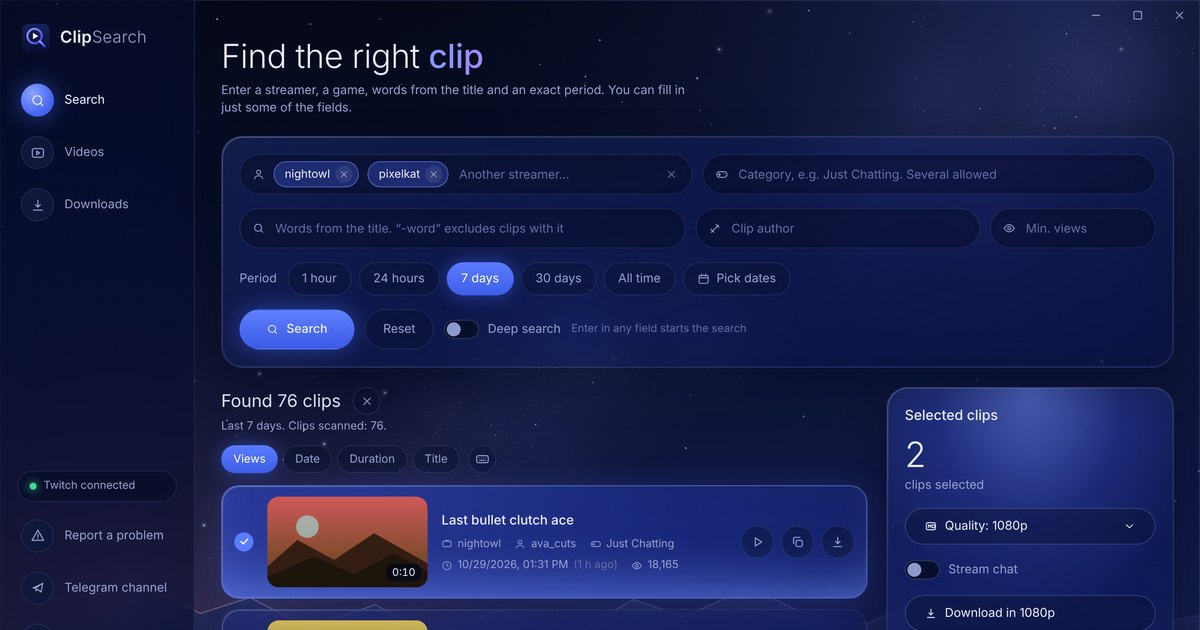
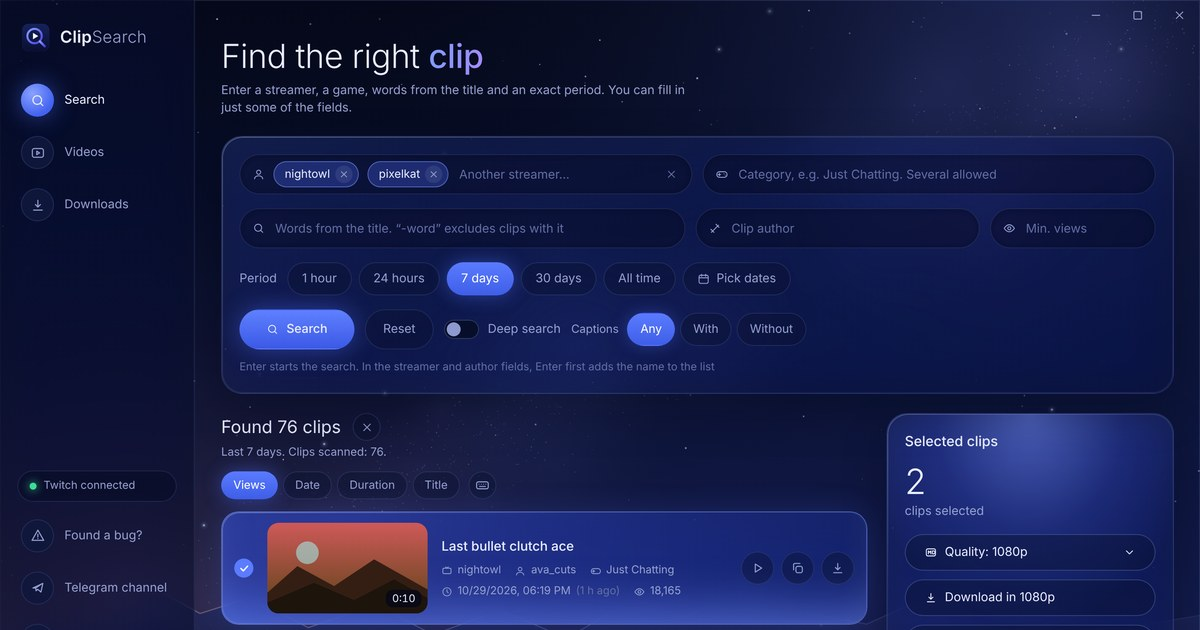
Quieter keyboard focus, no tooltip on captions filter, fresh app screenshots

Changed region(s): [[0.185, 0.4825, 0.9867, 1.0], [0.0617, 0.8444, 0.1542, 0.8746]]

diff --git a/site/en/index.html b/site/en/index.html
@@ -13,14 +13,15 @@
 <meta property="og:title" content="ClipSearch — search and download Twitch clips">
 <meta property="og:description" content="Find a Twitch clip in a minute and download it in 1080p. Free, no sign-in.">
 <meta property="og:url" content="https://clip-search.com/en/">
-<meta property="og:image" content="https://clip-search.com/og-en.jpg?v=4">
+<meta property="og:image" content="https://clip-search.com/og-en.jpg?v=5">
 <meta name="twitter:card" content="summary_large_image">
 <meta name="theme-color" content="#070b1f">
 <link rel="icon" href="../logo.svg" type="image/svg+xml">
 <link rel="preload" href="/fonts/onest-cyrillic.woff2" as="font" type="font/woff2" crossorigin>
 <link rel="preload" href="/fonts/onest-latin.woff2" as="font" type="font/woff2" crossorigin>
 <link rel="preconnect" href="https://api.clip-search.com">
-<style>@font-face{font-family:Onest;font-style:normal;font-weight:300 700;font-display:swap;src:url(/fonts/onest-cyrillic-ext.woff2) format('woff2');unicode-range:U+0460-052F,U+1C80-1C8A,U+20B4,U+2DE0-2DFF,U+A640-A69F,U+FE2E-FE2F}
+<style>
+@font-face{font-family:Onest;font-style:normal;font-weight:300 700;font-display:swap;src:url(/fonts/onest-cyrillic-ext.woff2) format('woff2');unicode-range:U+0460-052F,U+1C80-1C8A,U+20B4,U+2DE0-2DFF,U+A640-A69F,U+FE2E-FE2F}
 @font-face{font-family:Onest;font-style:normal;font-weight:300 700;font-display:swap;src:url(/fonts/onest-cyrillic.woff2) format('woff2');unicode-range:U+0301,U+0400-045F,U+0490-0491,U+04B0-04B1,U+2116}
 @font-face{font-family:Onest;font-style:normal;font-weight:300 700;font-display:swap;src:url(/fonts/onest-latin-ext.woff2) format('woff2');unicode-range:U+0100-02BA,U+02BD-02C5,U+02C7-02CC,U+02CE-02D7,U+02DD-02FF,U+0304,U+0308,U+0329,U+1D00-1DBF,U+1E00-1E9F,U+1EF2-1EFF,U+2020,U+20A0-20AB,U+20AD-20C4,U+2113,U+2C60-2C7F,U+A720-A7FF}
 @font-face{font-family:Onest;font-style:normal;font-weight:300 700;font-display:swap;src:url(/fonts/onest-latin.woff2) format('woff2');unicode-range:U+0000-00FF,U+0131,U+0152-0153,U+02BB-02BC,U+02C6,U+02DA,U+02DC,U+0304,U+0308,U+0329,U+2000-206F,U+20AC,U+2122,U+2191,U+2193,U+2212,U+2215,U+FEFF,U+FFFD}
@@ -55,7 +56,7 @@ body {
     linear-gradient(180deg, var(--sky-0) 0%, var(--sky-1) 45%, var(--sky-0) 100%);
   overflow-x: hidden;
 }
-body::after { /* звёзды, как на фоне программы */
+body::after {
   content: ""; position: fixed; inset: 0; pointer-events: none; z-index: 0; opacity: .55;
   background-image:
     radial-gradient(1px 1px at 12% 18%, #fff 50%, transparent 51%), radial-gradient(1px 1px at 33% 72%, #cfd8ff 50%, transparent 51%),
@@ -70,7 +71,6 @@ a { color: inherit; }
   padding-left: max(20px, env(safe-area-inset-left, 0px)); padding-right: max(20px, env(safe-area-inset-right, 0px)); }
 :focus-visible { outline: 2px solid var(--accent); outline-offset: 3px; border-radius: 8px; }
 
-/* шапка */
 .top { display: flex; align-items: center; gap: 28px; padding-block: 22px; }
 .brand { display: flex; align-items: center; gap: 12px; text-decoration: none; font-size: 22px; letter-spacing: -.01em; }
 .brand svg { width: 38px; height: 38px; flex: none; }
@@ -82,7 +82,6 @@ a { color: inherit; }
   border: 1px solid var(--line-strong); background: rgba(30, 44, 98, .45); transition: border-color .2s, background .2s; }
 .btn-sm:hover { border-color: var(--accent); background: rgba(48, 66, 150, .55); }
 
-/* герой */
 .hero { display: grid; justify-items: center; text-align: center; padding-block: 56px 40px; gap: 22px; }
 .eyebrow { display: inline-flex; align-items: center; gap: 10px; padding: 7px 14px 7px 10px; border-radius: 999px; font-size: 14px; color: var(--muted);
   border: 1px solid var(--line); background: rgba(17, 26, 62, .5); }
@@ -105,7 +104,6 @@ h1 em { font-style: normal; font-weight: 700;
 .req { margin: 0; font-size: 14px; color: var(--faint); }
 .req a { color: var(--muted); }
 
-/* окно программы */
 .stage { position: relative; perspective: 1600px; margin-top: 30px; width: 100%; }
 .stage::before { content: ""; position: absolute; inset: 8% 6% -4%; border-radius: 40px; filter: blur(60px);
   background: radial-gradient(closest-side, rgba(91, 124, 255, .55), rgba(122, 99, 255, .25) 60%, transparent); z-index: -1; }
@@ -119,7 +117,6 @@ h1 em { font-style: normal; font-weight: 700;
 @keyframes rise { from { transform: translateY(26px) rotateX(18deg); opacity: .4; } }
 .ridge { display: block; width: 100%; height: 120px; margin-top: -60px; position: relative; z-index: -1; }
 
-/* разделы */
 section { padding-block: 70px; }
 .head { display: grid; gap: 10px; margin-bottom: 34px; max-width: 46em; }
 .kicker { font-size: 13px; letter-spacing: .12em; text-transform: uppercase; color: var(--accent); font-weight: 600; }
@@ -143,7 +140,6 @@ h2 b { font-weight: 650; }
 .chip { font-size: 13px; padding: 4px 10px; border-radius: 999px; background: rgba(91, 124, 255, .16); border: 1px solid rgba(150, 172, 255, .22); color: #cfd8ff; }
 kbd { font-family: var(--font); font-size: 12.5px; padding: 2px 7px; border-radius: 6px; border: 1px solid var(--line-strong); background: rgba(12, 18, 54, .6); color: var(--text); }
 
-/* установка */
 .steps { display: grid; grid-template-columns: repeat(3, minmax(0, 1fr)); gap: 16px; counter-reset: s; }
 .step { padding: 26px; display: grid; gap: 10px; align-content: start; }
 .step .n { counter-increment: s; width: 34px; height: 34px; border-radius: 50%; display: grid; place-items: center; font-weight: 600; font-size: 15px;
@@ -154,7 +150,6 @@ kbd { font-family: var(--font); font-size: 12.5px; padding: 2px 7px; border-radi
 .step .warn { margin-top: 6px; padding: 12px 14px; border-radius: var(--r-sm); background: rgba(12, 18, 54, .55); border: 1px dashed var(--line-strong); font-size: 14px; color: var(--muted); }
 .step .warn b { color: var(--text); font-weight: 500; }
 
-/* версии */
 .log { display: grid; grid-template-columns: 220px minmax(0, 1fr); gap: 0; padding: 8px 0; overflow: hidden; }
 .log > div { padding: 22px 28px; border-top: 1px solid var(--line); }
 .log > div:nth-child(-n+2) { border-top: 0; }
@@ -165,7 +160,6 @@ kbd { font-family: var(--font); font-size: 12.5px; padding: 2px 7px; border-radi
 .log ul { margin: 0; padding-left: 18px; color: var(--muted); display: grid; gap: 6px; }
 .log li::marker { color: var(--accent); }
 
-/* вопросы */
 .faq { display: grid; grid-template-columns: repeat(2, minmax(0, 1fr)); gap: 16px; }
 details { padding: 20px 24px; }
 summary { cursor: pointer; list-style: none; font-weight: 600; font-size: 17px; display: flex; justify-content: space-between; gap: 16px; }
@@ -174,7 +168,6 @@ summary::after { content: "+"; color: var(--accent); font-weight: 400; font-size
 details[open] summary::after { transform: rotate(45deg); }
 details p { margin: 12px 0 0; color: var(--muted); font-size: 15px; }
 
-/* низ */
 .final { text-align: center; display: grid; justify-items: center; gap: 18px; padding: 54px 24px; margin-top: 10px; }
 .final h2 { max-width: 18ch; }
 footer { padding-block: 36px 48px; color: var(--faint); font-size: 14px; display: flex; flex-wrap: wrap; gap: 10px 24px; justify-content: space-between; border-top: 1px solid var(--line); margin-top: 40px; }
@@ -202,7 +195,6 @@ footer a { color: var(--muted); }
   html { scroll-behavior: auto; }
 }
 
-/* поиск на сайте */
 .hero { padding-block: 46px 26px; }
 .tool { padding: 22px; display: grid; gap: 14px; position: relative; }
 .row { display: grid; gap: 12px; }
@@ -289,7 +281,6 @@ footer a { color: var(--muted); }
 .appsec .stage { margin-top: 10px; }
 .appsec .req { margin-top: 14px; }
 
-/* всплывающие окна */
 .veil { position: fixed; inset: 0; z-index: 50; display: grid; place-items: center; padding: 20px; background: rgba(3, 6, 20, .72);
   -webkit-backdrop-filter: blur(8px); backdrop-filter: blur(8px); animation: fade .25s both; }
 @keyframes fade { from { opacity: 0; } }
@@ -353,7 +344,6 @@ footer a { color: var(--muted); }
 .ostabs button:hover { color: var(--text); }
 .ostabs button.on { color: #fff; background: linear-gradient(135deg, #7290ff, #5b7cff 55%, #7a63ff); box-shadow: 0 8px 22px rgba(80, 110, 255, .35); }
 
-/* записи трансляций */
 .modes { display: flex; gap: 6px; width: max-content; max-width: 100%; padding: 5px; border-radius: 999px; border: 1px solid var(--line); background: rgba(8, 12, 40, .5); }
 .modes button { display: inline-flex; align-items: center; gap: 8px; font: inherit; font-size: 15px; font-weight: 600; color: var(--muted); background: none; border: 0; border-radius: 999px; padding: 9px 18px; cursor: pointer; transition: color .2s, background .2s, box-shadow .2s; }
 .modes button .i { stroke: currentColor; }
@@ -410,7 +400,9 @@ footer a { color: var(--muted); }
 .vdl .rs-scale { margin-bottom: 4px; }
 .vdl .vlocks .lockbtn { height: auto; min-height: 34px; padding: 6px 13px; font-size: 13.5px; text-align: left; line-height: 1.3; }
 </style>
-<script type="application/ld+json">{"@context":"https://schema.org","@type":"SoftwareApplication","name":"ClipSearch","operatingSystem":"Windows 10, Windows 11, macOS 11","applicationCategory":"MultimediaApplication","offers":{"@type":"Offer","price":"0","priceCurrency":"USD"},"url":"https://clip-search.com/","downloadUrl":"https://github.com/clipsearch-app/ClipSearch/releases/latest/download/ClipSearchSetup.exe"}</script>
+<script type="application/ld+json">
+{"@context":"https://schema.org","@type":"SoftwareApplication","name":"ClipSearch","operatingSystem":"Windows 10, Windows 11, macOS 11","applicationCategory":"MultimediaApplication","offers":{"@type":"Offer","price":"0","priceCurrency":"USD"},"url":"https://clip-search.com/","downloadUrl":"https://github.com/clipsearch-app/ClipSearch/releases/latest/download/ClipSearchSetup.exe"}
+</script>
 </head>
 <body>
 
@@ -587,7 +579,7 @@ footer a { color: var(--muted); }
     </div>
     <div class="stage">
       <div class="win" id="win">
-        <img src="../shot-en.webp?v=4" alt="ClipSearch window: 76 clips found for two streamers over 7 days, two clips selected for download in 1080p" width="1600" height="1019" loading="lazy">
+        <img src="../shot-en.webp?v=5" alt="ClipSearch window: 76 clips found for two streamers over 7 days, two clips selected for download in 1080p" width="1600" height="1019" loading="lazy">
         <div class="shine"></div>
       </div>
     </div>
@@ -771,7 +763,6 @@ footer a { color: var(--muted); }
 </div>
 
 <script>
-// окно программы чуть поворачивается за курсором — как превью клипов в самой программе
 (function () {
   const win = document.getElementById("win");
   if (!win || matchMedia("(prefers-reduced-motion: reduce)").matches || matchMedia("(hover: none)").matches) return;

diff --git a/site/en/privacy/index.html b/site/en/privacy/index.html
@@ -7,7 +7,8 @@
 <meta name="robots" content="noindex">
 <meta name="theme-color" content="#070b1f">
 <link rel="icon" href="/logo.svg" type="image/svg+xml">
-<style>@font-face{font-family:Onest;font-style:normal;font-weight:300 700;font-display:swap;src:url(/fonts/onest-cyrillic-ext.woff2) format('woff2');unicode-range:U+0460-052F,U+1C80-1C8A,U+20B4,U+2DE0-2DFF,U+A640-A69F,U+FE2E-FE2F}
+<style>
+@font-face{font-family:Onest;font-style:normal;font-weight:300 700;font-display:swap;src:url(/fonts/onest-cyrillic-ext.woff2) format('woff2');unicode-range:U+0460-052F,U+1C80-1C8A,U+20B4,U+2DE0-2DFF,U+A640-A69F,U+FE2E-FE2F}
 @font-face{font-family:Onest;font-style:normal;font-weight:300 700;font-display:swap;src:url(/fonts/onest-cyrillic.woff2) format('woff2');unicode-range:U+0301,U+0400-045F,U+0490-0491,U+04B0-04B1,U+2116}
 @font-face{font-family:Onest;font-style:normal;font-weight:300 700;font-display:swap;src:url(/fonts/onest-latin-ext.woff2) format('woff2');unicode-range:U+0100-02BA,U+02BD-02C5,U+02C7-02CC,U+02CE-02D7,U+02DD-02FF,U+0304,U+0308,U+0329,U+1D00-1DBF,U+1E00-1E9F,U+1EF2-1EFF,U+2020,U+20A0-20AB,U+20AD-20C4,U+2113,U+2C60-2C7F,U+A720-A7FF}
 @font-face{font-family:Onest;font-style:normal;font-weight:300 700;font-display:swap;src:url(/fonts/onest-latin.woff2) format('woff2');unicode-range:U+0000-00FF,U+0131,U+0152-0153,U+02BB-02BC,U+02C6,U+02DA,U+02DC,U+0304,U+0308,U+0329,U+2000-206F,U+20AC,U+2122,U+2191,U+2193,U+2212,U+2215,U+FEFF,U+FFFD}
@@ -42,7 +43,7 @@ body {
     linear-gradient(180deg, var(--sky-0) 0%, var(--sky-1) 45%, var(--sky-0) 100%);
   overflow-x: hidden;
 }
-body::after { /* звёзды, как на фоне программы */
+body::after {
   content: ""; position: fixed; inset: 0; pointer-events: none; z-index: 0; opacity: .55;
   background-image:
     radial-gradient(1px 1px at 12% 18%, #fff 50%, transparent 51%), radial-gradient(1px 1px at 33% 72%, #cfd8ff 50%, transparent 51%),
@@ -57,7 +58,6 @@ a { color: inherit; }
   padding-left: max(20px, env(safe-area-inset-left, 0px)); padding-right: max(20px, env(safe-area-inset-right, 0px)); }
 :focus-visible { outline: 2px solid var(--accent); outline-offset: 3px; border-radius: 8px; }
 
-/* шапка */
 .top { display: flex; align-items: center; gap: 28px; padding-block: 22px; }
 .brand { display: flex; align-items: center; gap: 12px; text-decoration: none; font-size: 22px; letter-spacing: -.01em; }
 .brand svg { width: 38px; height: 38px; flex: none; }
@@ -69,7 +69,6 @@ a { color: inherit; }
   border: 1px solid var(--line-strong); background: rgba(30, 44, 98, .45); transition: border-color .2s, background .2s; }
 .btn-sm:hover { border-color: var(--accent); background: rgba(48, 66, 150, .55); }
 
-/* герой */
 .hero { display: grid; justify-items: center; text-align: center; padding-block: 56px 40px; gap: 22px; }
 .eyebrow { display: inline-flex; align-items: center; gap: 10px; padding: 7px 14px 7px 10px; border-radius: 999px; font-size: 14px; color: var(--muted);
   border: 1px solid var(--line); background: rgba(17, 26, 62, .5); }
@@ -92,7 +91,6 @@ h1 em { font-style: normal; font-weight: 700;
 .req { margin: 0; font-size: 14px; color: var(--faint); }
 .req a { color: var(--muted); }
 
-/* окно программы */
 .stage { position: relative; perspective: 1600px; margin-top: 30px; width: 100%; }
 .stage::before { content: ""; position: absolute; inset: 8% 6% -4%; border-radius: 40px; filter: blur(60px);
   background: radial-gradient(closest-side, rgba(91, 124, 255, .55), rgba(122, 99, 255, .25) 60%, transparent); z-index: -1; }
@@ -106,7 +104,6 @@ h1 em { font-style: normal; font-weight: 700;
 @keyframes rise { from { transform: translateY(26px) rotateX(18deg); opacity: .4; } }
 .ridge { display: block; width: 100%; height: 120px; margin-top: -60px; position: relative; z-index: -1; }
 
-/* разделы */
 section { padding-block: 70px; }
 .head { display: grid; gap: 10px; margin-bottom: 34px; max-width: 46em; }
 .kicker { font-size: 13px; letter-spacing: .12em; text-transform: uppercase; color: var(--accent); font-weight: 600; }
@@ -130,7 +127,6 @@ h2 b { font-weight: 650; }
 .chip { font-size: 13px; padding: 4px 10px; border-radius: 999px; background: rgba(91, 124, 255, .16); border: 1px solid rgba(150, 172, 255, .22); color: #cfd8ff; }
 kbd { font-family: var(--font); font-size: 12.5px; padding: 2px 7px; border-radius: 6px; border: 1px solid var(--line-strong); background: rgba(12, 18, 54, .6); color: var(--text); }
 
-/* установка */
 .steps { display: grid; grid-template-columns: repeat(3, minmax(0, 1fr)); gap: 16px; counter-reset: s; }
 .step { padding: 26px; display: grid; gap: 10px; align-content: start; }
 .step .n { counter-increment: s; width: 34px; height: 34px; border-radius: 50%; display: grid; place-items: center; font-weight: 600; font-size: 15px;
@@ -141,7 +137,6 @@ kbd { font-family: var(--font); font-size: 12.5px; padding: 2px 7px; border-radi
 .step .warn { margin-top: 6px; padding: 12px 14px; border-radius: var(--r-sm); background: rgba(12, 18, 54, .55); border: 1px dashed var(--line-strong); font-size: 14px; color: var(--muted); }
 .step .warn b { color: var(--text); font-weight: 500; }
 
-/* версии */
 .log { display: grid; grid-template-columns: 220px minmax(0, 1fr); gap: 0; padding: 8px 0; overflow: hidden; }
 .log > div { padding: 22px 28px; border-top: 1px solid var(--line); }
 .log > div:nth-child(-n+2) { border-top: 0; }
@@ -152,7 +147,6 @@ kbd { font-family: var(--font); font-size: 12.5px; padding: 2px 7px; border-radi
 .log ul { margin: 0; padding-left: 18px; color: var(--muted); display: grid; gap: 6px; }
 .log li::marker { color: var(--accent); }
 
-/* вопросы */
 .faq { display: grid; grid-template-columns: repeat(2, minmax(0, 1fr)); gap: 16px; }
 details { padding: 20px 24px; }
 summary { cursor: pointer; list-style: none; font-weight: 600; font-size: 17px; display: flex; justify-content: space-between; gap: 16px; }
@@ -161,7 +155,6 @@ summary::after { content: "+"; color: var(--accent); font-weight: 400; font-size
 details[open] summary::after { transform: rotate(45deg); }
 details p { margin: 12px 0 0; color: var(--muted); font-size: 15px; }
 
-/* низ */
 .final { text-align: center; display: grid; justify-items: center; gap: 18px; padding: 54px 24px; margin-top: 10px; }
 .final h2 { max-width: 18ch; }
 footer { padding-block: 36px 48px; color: var(--faint); font-size: 14px; display: flex; flex-wrap: wrap; gap: 10px 24px; justify-content: space-between; border-top: 1px solid var(--line); margin-top: 40px; }

diff --git a/site/privacy/index.html b/site/privacy/index.html
@@ -7,7 +7,8 @@
 <meta name="robots" content="noindex">
 <meta name="theme-color" content="#070b1f">
 <link rel="icon" href="/logo.svg" type="image/svg+xml">
-<style>@font-face{font-family:Onest;font-style:normal;font-weight:300 700;font-display:swap;src:url(/fonts/onest-cyrillic-ext.woff2) format('woff2');unicode-range:U+0460-052F,U+1C80-1C8A,U+20B4,U+2DE0-2DFF,U+A640-A69F,U+FE2E-FE2F}
+<style>
+@font-face{font-family:Onest;font-style:normal;font-weight:300 700;font-display:swap;src:url(/fonts/onest-cyrillic-ext.woff2) format('woff2');unicode-range:U+0460-052F,U+1C80-1C8A,U+20B4,U+2DE0-2DFF,U+A640-A69F,U+FE2E-FE2F}
 @font-face{font-family:Onest;font-style:normal;font-weight:300 700;font-display:swap;src:url(/fonts/onest-cyrillic.woff2) format('woff2');unicode-range:U+0301,U+0400-045F,U+0490-0491,U+04B0-04B1,U+2116}
 @font-face{font-family:Onest;font-style:normal;font-weight:300 700;font-display:swap;src:url(/fonts/onest-latin-ext.woff2) format('woff2');unicode-range:U+0100-02BA,U+02BD-02C5,U+02C7-02CC,U+02CE-02D7,U+02DD-02FF,U+0304,U+0308,U+0329,U+1D00-1DBF,U+1E00-1E9F,U+1EF2-1EFF,U+2020,U+20A0-20AB,U+20AD-20C4,U+2113,U+2C60-2C7F,U+A720-A7FF}
 @font-face{font-family:Onest;font-style:normal;font-weight:300 700;font-display:swap;src:url(/fonts/onest-latin.woff2) format('woff2');unicode-range:U+0000-00FF,U+0131,U+0152-0153,U+02BB-02BC,U+02C6,U+02DA,U+02DC,U+0304,U+0308,U+0329,U+2000-206F,U+20AC,U+2122,U+2191,U+2193,U+2212,U+2215,U+FEFF,U+FFFD}
@@ -42,7 +43,7 @@ body {
     linear-gradient(180deg, var(--sky-0) 0%, var(--sky-1) 45%, var(--sky-0) 100%);
   overflow-x: hidden;
 }
-body::after { /* звёзды, как на фоне программы */
+body::after {
   content: ""; position: fixed; inset: 0; pointer-events: none; z-index: 0; opacity: .55;
   background-image:
     radial-gradient(1px 1px at 12% 18%, #fff 50%, transparent 51%), radial-gradient(1px 1px at 33% 72%, #cfd8ff 50%, transparent 51%),
@@ -57,7 +58,6 @@ a { color: inherit; }
   padding-left: max(20px, env(safe-area-inset-left, 0px)); padding-right: max(20px, env(safe-area-inset-right, 0px)); }
 :focus-visible { outline: 2px solid var(--accent); outline-offset: 3px; border-radius: 8px; }
 
-/* шапка */
 .top { display: flex; align-items: center; gap: 28px; padding-block: 22px; }
 .brand { display: flex; align-items: center; gap: 12px; text-decoration: none; font-size: 22px; letter-spacing: -.01em; }
 .brand svg { width: 38px; height: 38px; flex: none; }
@@ -69,7 +69,6 @@ a { color: inherit; }
   border: 1px solid var(--line-strong); background: rgba(30, 44, 98, .45); transition: border-color .2s, background .2s; }
 .btn-sm:hover { border-color: var(--accent); background: rgba(48, 66, 150, .55); }
 
-/* герой */
 .hero { display: grid; justify-items: center; text-align: center; padding-block: 56px 40px; gap: 22px; }
 .eyebrow { display: inline-flex; align-items: center; gap: 10px; padding: 7px 14px 7px 10px; border-radius: 999px; font-size: 14px; color: var(--muted);
   border: 1px solid var(--line); background: rgba(17, 26, 62, .5); }
@@ -92,7 +91,6 @@ h1 em { font-style: normal; font-weight: 700;
 .req { margin: 0; font-size: 14px; color: var(--faint); }
 .req a { color: var(--muted); }
 
-/* окно программы */
 .stage { position: relative; perspective: 1600px; margin-top: 30px; width: 100%; }
 .stage::before { content: ""; position: absolute; inset: 8% 6% -4%; border-radius: 40px; filter: blur(60px);
   background: radial-gradient(closest-side, rgba(91, 124, 255, .55), rgba(122, 99, 255, .25) 60%, transparent); z-index: -1; }
@@ -106,7 +104,6 @@ h1 em { font-style: normal; font-weight: 700;
 @keyframes rise { from { transform: translateY(26px) rotateX(18deg); opacity: .4; } }
 .ridge { display: block; width: 100%; height: 120px; margin-top: -60px; position: relative; z-index: -1; }
 
-/* разделы */
 section { padding-block: 70px; }
 .head { display: grid; gap: 10px; margin-bottom: 34px; max-width: 46em; }
 .kicker { font-size: 13px; letter-spacing: .12em; text-transform: uppercase; color: var(--accent); font-weight: 600; }
@@ -130,7 +127,6 @@ h2 b { font-weight: 650; }
 .chip { font-size: 13px; padding: 4px 10px; border-radius: 999px; background: rgba(91, 124, 255, .16); border: 1px solid rgba(150, 172, 255, .22); color: #cfd8ff; }
 kbd { font-family: var(--font); font-size: 12.5px; padding: 2px 7px; border-radius: 6px; border: 1px solid var(--line-strong); background: rgba(12, 18, 54, .6); color: var(--text); }
 
-/* установка */
 .steps { display: grid; grid-template-columns: repeat(3, minmax(0, 1fr)); gap: 16px; counter-reset: s; }
 .step { padding: 26px; display: grid; gap: 10px; align-content: start; }
 .step .n { counter-increment: s; width: 34px; height: 34px; border-radius: 50%; display: grid; place-items: center; font-weight: 600; font-size: 15px;
@@ -141,7 +137,6 @@ kbd { font-family: var(--font); font-size: 12.5px; padding: 2px 7px; border-radi
 .step .warn { margin-top: 6px; padding: 12px 14px; border-radius: var(--r-sm); background: rgba(12, 18, 54, .55); border: 1px dashed var(--line-strong); font-size: 14px; color: var(--muted); }
 .step .warn b { color: var(--text); font-weight: 500; }
 
-/* версии */
 .log { display: grid; grid-template-columns: 220px minmax(0, 1fr); gap: 0; padding: 8px 0; overflow: hidden; }
 .log > div { padding: 22px 28px; border-top: 1px solid var(--line); }
 .log > div:nth-child(-n+2) { border-top: 0; }
@@ -152,7 +147,6 @@ kbd { font-family: var(--font); font-size: 12.5px; padding: 2px 7px; border-radi
 .log ul { margin: 0; padding-left: 18px; color: var(--muted); display: grid; gap: 6px; }
 .log li::marker { color: var(--accent); }
 
-/* вопросы */
 .faq { display: grid; grid-template-columns: repeat(2, minmax(0, 1fr)); gap: 16px; }
 details { padding: 20px 24px; }
 summary { cursor: pointer; list-style: none; font-weight: 600; font-size: 17px; display: flex; justify-content: space-between; gap: 16px; }
@@ -161,7 +155,6 @@ summary::after { content: "+"; color: var(--accent); font-weight: 400; font-size
 details[open] summary::after { transform: rotate(45deg); }
 details p { margin: 12px 0 0; color: var(--muted); font-size: 15px; }
 
-/* низ */
 .final { text-align: center; display: grid; justify-items: center; gap: 18px; padding: 54px 24px; margin-top: 10px; }
 .final h2 { max-width: 18ch; }
 footer { padding-block: 36px 48px; color: var(--faint); font-size: 14px; display: flex; flex-wrap: wrap; gap: 10px 24px; justify-content: space-between; border-top: 1px solid var(--line); margin-top: 40px; }

diff --git a/site/index.html b/site/index.html
@@ -13,7 +13,7 @@
 <meta property="og:title" content="ClipSearch — поиск и скачивание клипов Twitch">
 <meta property="og:description" content="Найдите клип Twitch за минуту и скачайте в 1080p. Бесплатно, без входа.">
 <meta property="og:url" content="https://clip-search.com/">
-<meta property="og:image" content="https://clip-search.com/og.jpg?v=4">
+<meta property="og:image" content="https://clip-search.com/og.jpg?v=5">
 <meta name="twitter:card" content="summary_large_image">
 <meta name="theme-color" content="#070b1f">
 <link rel="icon" href="logo.svg" type="image/svg+xml">
@@ -579,7 +579,7 @@ footer a { color: var(--muted); }
     </div>
     <div class="stage">
       <div class="win" id="win">
-        <img src="shot.webp?v=4" alt="Окно ClipSearch: найдено 76 клипов у двух стримеров за 7 дней, два клипа выбраны для скачивания в 1080p" width="1600" height="1019" loading="lazy">
+        <img src="shot.webp?v=5" alt="Окно ClipSearch: найдено 76 клипов у двух стримеров за 7 дней, два клипа выбраны для скачивания в 1080p" width="1600" height="1019" loading="lazy">
         <div class="shine"></div>
       </div>
     </div>

diff --git a/clip_search.py b/clip_search.py
@@ -1617,7 +1617,9 @@ body {
 }
 button, input, select { font: inherit; color: inherit; }
 button { cursor: pointer; }
-:focus-visible { outline: 2px solid #9db0ff; outline-offset: 2px; }
+:focus-visible { outline: none; }
+.nav button:focus-visible .ic { border-color: rgba(157, 176, 255, 0.55); }
+.chip:focus-visible, .btn:focus-visible, .switch:focus-visible .tr { border-color: rgba(157, 176, 255, 0.55); }
 svg.i { width: 1em; height: 1em; fill: none; stroke: currentColor; stroke-width: 1.8; stroke-linecap: round; stroke-linejoin: round; flex: none; }
 
 #stars { position: fixed; inset: 0; pointer-events: none; }
@@ -2611,7 +2613,7 @@ input[type=range].rg:disabled { opacity: .4; }
             <button class="btn danger" id="stop" hidden>Остановить</button>
             <button class="btn ghostbtn" id="reset" title="Очистить все поля и вернуть период «7 дней»">Сбросить</button>
             <button class="switch" id="deep" role="switch" aria-checked="false" title="Период режется на недельные куски: находит больше старых и непопулярных клипов, но поиск идёт дольше"><span class="tr"></span>Глубокий поиск</button>
-            <div class="seg solid ccseg" id="ccSeg" title="Субтитры Twitch на клипе: автоматические или добавленные стримером"><span class="lbl">Субтитры</span><button class="chip on" type="button" data-cc="">Любые</button><button class="chip" type="button" data-cc="yes">Есть</button><button class="chip" type="button" data-cc="no">Нет</button></div>
+            <div class="seg solid ccseg" id="ccSeg"><span class="lbl">Субтитры</span><button class="chip on" type="button" data-cc="">Любые</button><button class="chip" type="button" data-cc="yes">Есть</button><button class="chip" type="button" data-cc="no">Нет</button></div>
             <span class="hint" id="goHint"></span>
           </div>
         </div>
